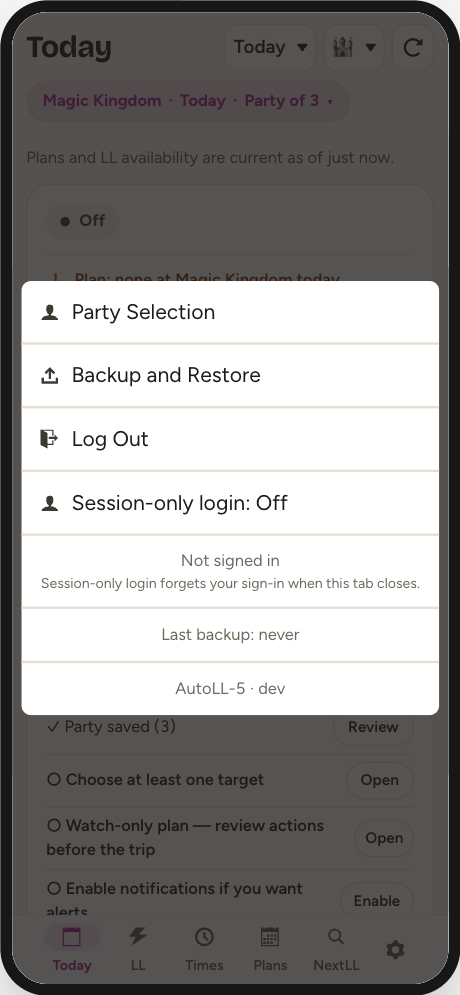
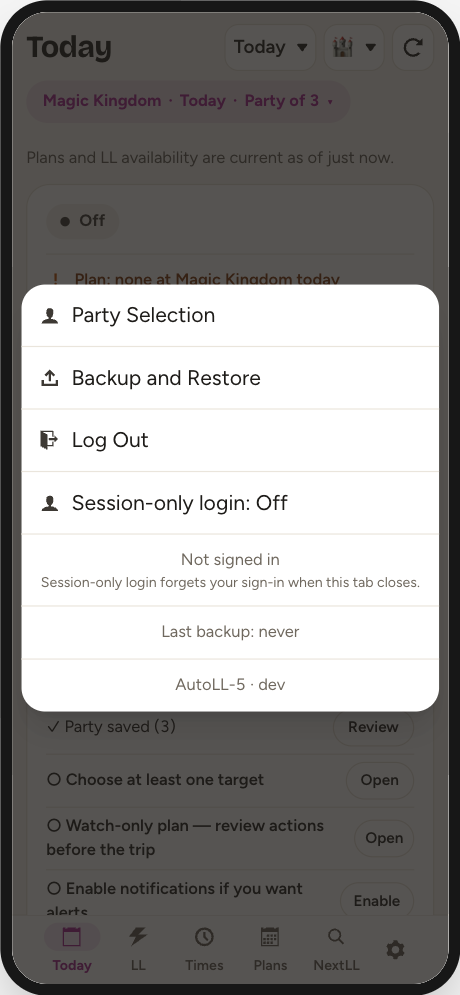
New look, slice 12: Settings (#38)
The settings menu and its screens brought in line with the rest. Looks
only: the same rows, words and taps. Each menu row still closes the menu
and runs its action as before, and Backup's share sheet and Restore's
file picker are untouched.

- The menu rounder, with hairline rules in place of thick ones, and a
  shadow; its status rows keep their padding.
- Party Selection's two choices as a card of rows, at least 44 px tall;
  its headings in bold.
- Backup and Restore's headings in bold, and the picked file as a card.

Checked in the harness at 360 px: the menu, Party Selection and Backup
and Restore. The guide's settings screenshot is retaken. That leaves the
Timeline, which waits for AutoLL-3's 1.8.0 to arrive by merge.

diff --git a/src/components/ll/screens/Home/SettingsButton.tsx b/src/components/ll/screens/Home/SettingsButton.tsx
@@ -85,7 +85,7 @@ export default function SettingsButton() {
           data-testid="shade"
         >
           <ul
-            className="dividers overflow-auto min-w-[50%] max-h-[90%] rounded-lg bg-white text-black text-lg font-normal"
+            className="divide-y divide-gray-200 overflow-auto min-w-[50%] max-h-[90%] rounded-[20px] bg-white text-black text-lg font-normal shadow-xl"
             ref={listRef}
           >
             {options.map(opt => {
@@ -109,7 +109,7 @@ export default function SettingsButton() {
               );
             })}
             <li
-              className="px-4 text-center text-sm text-gray-500"
+              className="px-4 py-3 text-center text-sm text-gray-500"
               aria-label="Session status"
             >
               {describeSession(sessionStatus, sessionEnds)}
@@ -121,7 +121,7 @@ export default function SettingsButton() {
                 having to notify it. Here rather than on Today, which is for the
                 park day; a reminder to back up belongs with the backup. */}
             <li
-              className="px-4 text-center text-sm text-gray-500"
+              className="px-4 py-3 text-center text-sm text-gray-500"
               aria-label="Last backup"
             >
               Last backup: {describeLastBackup(lastBackupAt())}
@@ -130,7 +130,7 @@ export default function SettingsButton() {
                 installed on the same phone; this used to sit in the tab bar,
                 where five tabs no longer leave it room. */}
             <li
-              className="px-4 text-center text-sm text-gray-500"
+              className="px-4 py-3 text-center text-sm text-gray-500"
               aria-label={`Build: ${APP_NAME} ${BUILD_REV}`}
             >
               {APP_NAME} · {BUILD_REV}

diff --git a/src/components/ll/screens/PartySelector.tsx b/src/components/ll/screens/PartySelector.tsx
@@ -36,7 +36,7 @@ export default function PartySelector() {
 
   const Mode = (props: { auto: boolean; children: string }) => (
     <li>
-      <label className="flex items-center mt-2">
+      <label className="flex min-h-11 items-center px-3">
         <input
           type="radio"
           name="auto"
@@ -56,7 +56,7 @@ export default function PartySelector() {
         automatically selected when you book a Lightning Lane. If you would like
         to limit who you book for, you can manually select your party here.
       </p>
-      <ul>
+      <ul className="mt-3 divide-y divide-gray-200 overflow-hidden rounded-[18px] border border-gray-300 bg-white">
         <Mode auto={true}>Book for all eligible guests</Mode>
         <Mode auto={false}>Only book for selected guests</Mode>
       </ul>
@@ -67,7 +67,7 @@ export default function PartySelector() {
         <>
           {partyGuests.length > 0 && (
             <>
-              <h3>Your Party</h3>
+              <h3 className="font-bold">Your Party</h3>
               <GuestList
                 guests={partyGuests}
                 selectable={{
@@ -83,7 +83,7 @@ export default function PartySelector() {
           )}
           {nonpartyGuests.length > 0 && (
             <>
-              <h3>Add to Your Party</h3>
+              <h3 className="font-bold">Add to Your Party</h3>
               <GuestList
                 guests={nonpartyGuests}
                 selectable={{

diff --git a/src/components/ll/screens/BackupRestore.tsx b/src/components/ll/screens/BackupRestore.tsx
@@ -132,7 +132,7 @@ export default function BackupRestore({
   const now = new Date();
   return (
     <Screen title="Backup and Restore">
-      <h3>On this phone</h3>
+      <h3 className="font-bold">On this phone</h3>
       <p>{summary}</p>
       <p className="text-sm text-gray-600">
         Last backup: {describeLastBackup(lastAt, now)}
@@ -160,7 +160,7 @@ export default function BackupRestore({
         only copy that survives that.
       </p>
 
-      <h3 className="mt-8">Restore</h3>
+      <h3 className="mt-8 font-bold">Restore</h3>
       <p className="text-sm text-gray-600">
         Replaces this phone’s plan — the watch list, Time Search’s list, the
         party and starred attractions — with the file’s, and adds the drops the
@@ -182,7 +182,7 @@ export default function BackupRestore({
         onChange={onPick}
       />
       {picked ? (
-        <div className="mt-3 rounded-lg border border-gray-300 p-3">
+        <div className="mt-3 rounded-2xl border border-gray-300 bg-white p-4">
           <p className="font-semibold break-all">{picked.name}</p>
           <p className="text-sm text-gray-600">
             {describeExport(picked.backup)}

diff --git a/docs/NEW-LOOK.md b/docs/NEW-LOOK.md
@@ -74,6 +74,7 @@ park. Each slice keeps all of them.
 | 9 | Plan Check | its headings in bold, as Today's are; the summary, each item, the connection result, the party result and the doubts panel as rounded boxes, as Today's notices are | in review |
 | 10 | Activity | its headings in bold, as Today's are; the log, the skip counts and the learned drop times each as a card with hairline rules; each log line's time in semibold | in review |
 | 11 | Booking screens | the return window as the biggest thing on them, in the display face, under a small label, still one element that reads "Arrive by: 10:35 AM – 11:35 AM"; Your Lightning Lanes as a card; their headings in bold; rounder notices and the cancel dialog | in review |
+| 12 | Settings | the menu rounder, with hairline rules and a shadow; Party Selection's choice as a card of rows; its and Backup and Restore's headings in bold; the picked backup file as a card | in review |
 
 **One deliberate departure from the mockups.** They put Today's main actions in
 a bar along the bottom. The switch stays in the page instead: a bar there sits
@@ -86,8 +87,9 @@ switch would be a new filter, not a new look, so it is not part of these
 slices. The mockups' single tappable park, date and party chip likewise: the
 header keeps its separate controls until that is built as behaviour.
 
-**Not yet redrawn** beyond what the foundation gave them: Timeline and
-Settings. They already have the palette, type, header, tab bar and buttons.
+**Not yet redrawn** beyond what the foundation gave them: the Timeline, which
+waits for AutoLL-3's 1.8.0 (the timeline's names and dining) to arrive by
+merge, since that release redraws the same component. They already have the palette, type, header, tab bar and buttons.
 
 **The user guide's screenshots** show the new look. All 21 were retaken
 together once the new look's slices and the usability work had landed, from the
